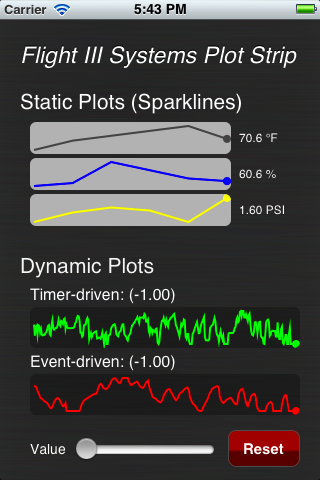
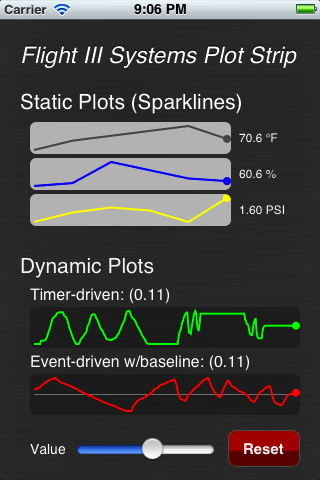
-Added new screen capture showing baseline functionality

diff --git a/README.md b/README.md
@@ -29,7 +29,7 @@ Usage
 Adding this control to your XCode project is straightforward:
 
 1. Add the F3PlotStrip.h and F3PlotStrip.m files to your project
-2. Add a new blank subview to the nib, sized and positioned to match what the bar gauge should look like.
+2. Add a new blank subview to the nib, sized and positioned to match what the plot strip should look like.
 3. In the properties inspector for this subview, change the class to "F3PlotStrip"
 4. Add an outlet to represent the control
 5. Update your code to set the value property as appropriate.
